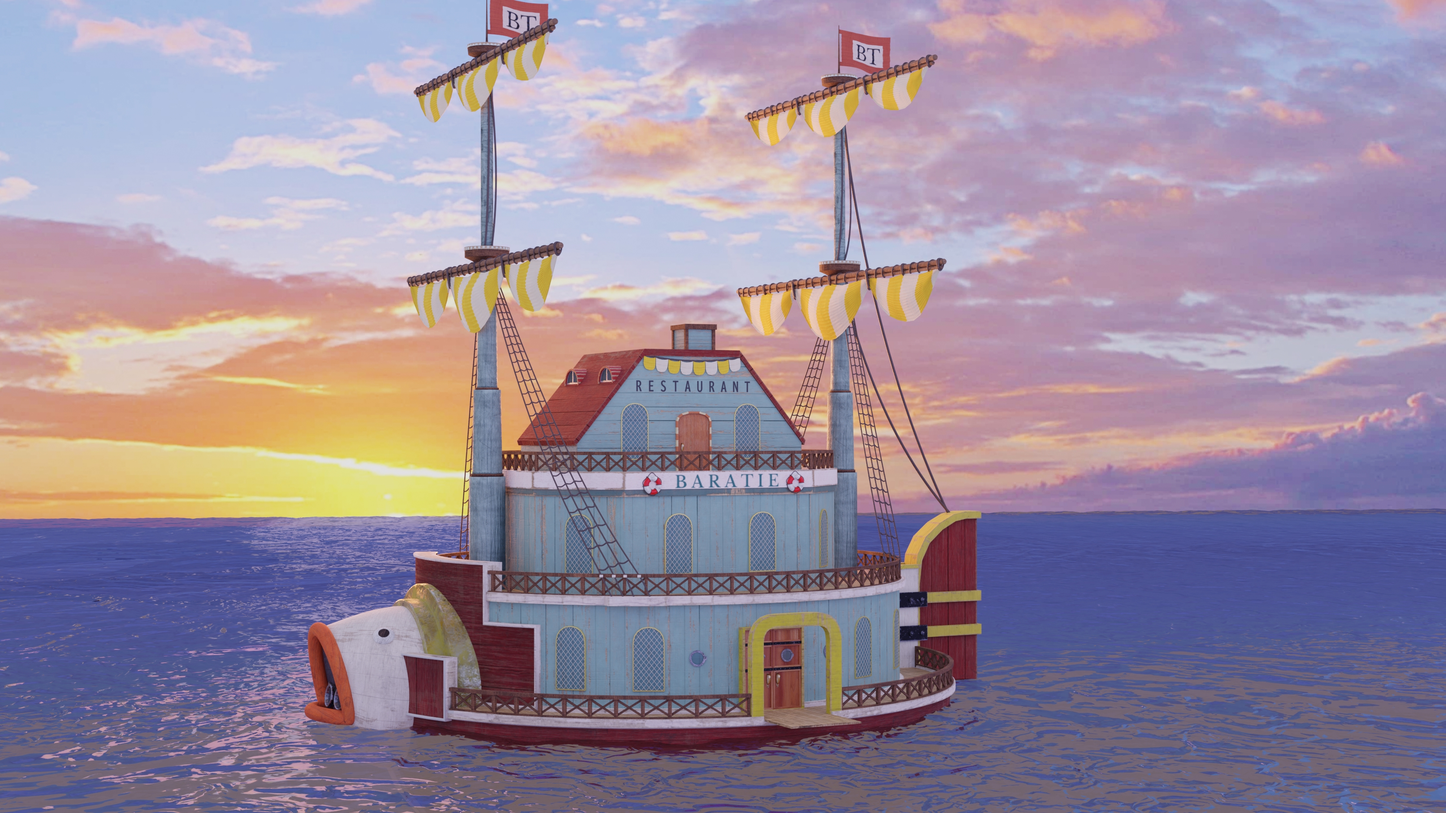
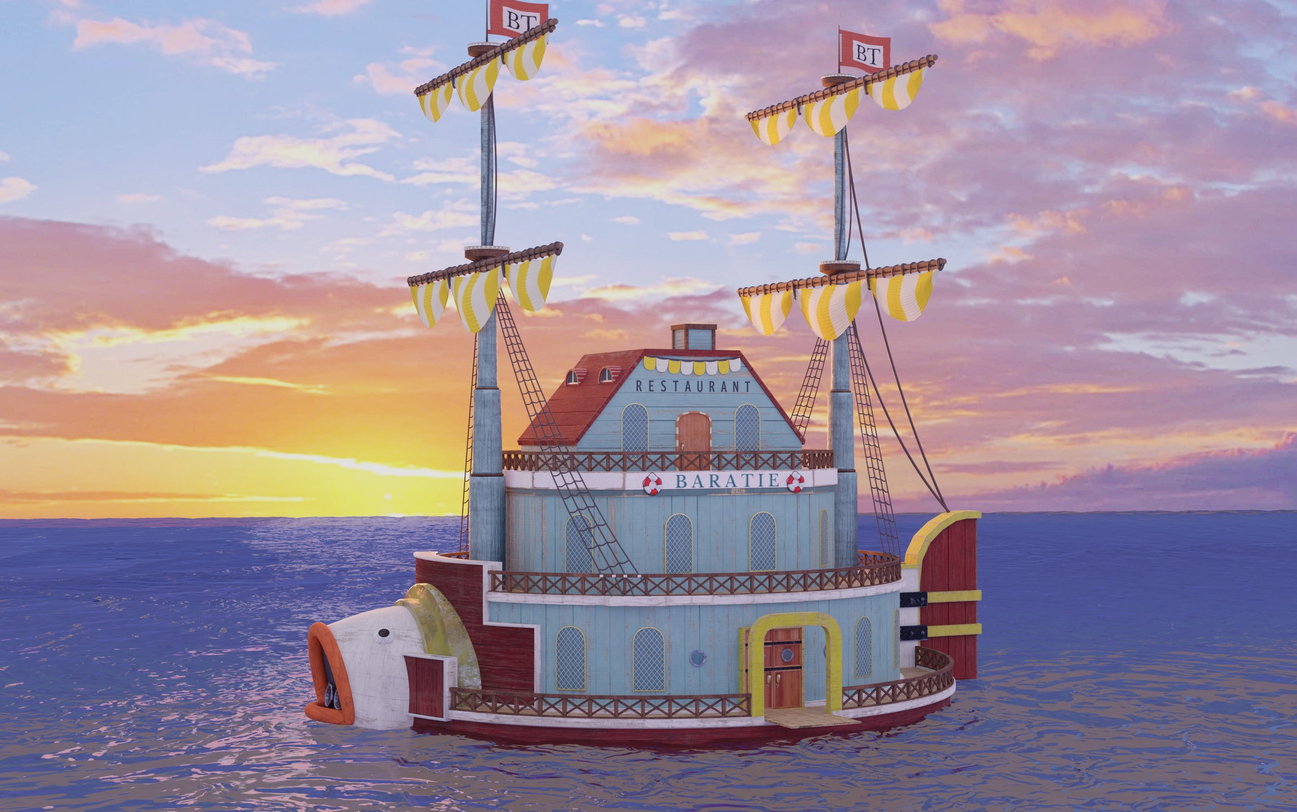
Rethemed site

diff --git a/main.js b/main.js
@@ -26,7 +26,7 @@ eval("__webpack_require__.r(__webpack_exports__);\n/* harmony export */ __webpac
   \*************************************/
 /***/ ((__unused_webpack_module, __webpack_exports__, __webpack_require__) => {
 
-eval("__webpack_require__.r(__webpack_exports__);\n/* harmony export */ __webpack_require__.d(__webpack_exports__, {\n/* harmony export */   \"default\": () => (__WEBPACK_DEFAULT_EXPORT__)\n/* harmony export */ });\nconst renderFooter = () => {\n    const body = document.querySelector('body');\n    const footer = document.createElement('div');\n    footer.classList.add('footer');\n    footer.innerHTML = '<span>Brought to you by the Straw Hat Pirates</span><ion-icon name=\"logo-github\"></ion-icon>'\n    body.appendChild(footer);\n    console.log(\"footer rendered\");\n}\n\n/* harmony default export */ const __WEBPACK_DEFAULT_EXPORT__ = (renderFooter);\n\n//# sourceURL=webpack://restaurant-page/./src/display/renderFooter.js?");
+eval("__webpack_require__.r(__webpack_exports__);\n/* harmony export */ __webpack_require__.d(__webpack_exports__, {\n/* harmony export */   \"default\": () => (__WEBPACK_DEFAULT_EXPORT__)\n/* harmony export */ });\nconst renderFooter = () => {\n    const body = document.querySelector('body');\n    const footer = document.createElement('div');\n    footer.classList.add('footer');\n    footer.innerHTML = '<div>Brought to you by the Straw Hat Pirates</div><ion-icon name=\"logo-github\"></ion-icon>'\n    body.appendChild(footer);\n    console.log(\"footer rendered\");\n}\n\n/* harmony default export */ const __WEBPACK_DEFAULT_EXPORT__ = (renderFooter);\n\n//# sourceURL=webpack://restaurant-page/./src/display/renderFooter.js?");
 
 /***/ }),
 
@@ -36,7 +36,7 @@ eval("__webpack_require__.r(__webpack_exports__);\n/* harmony export */ __webpac
   \*************************************/
 /***/ ((__unused_webpack_module, __webpack_exports__, __webpack_require__) => {
 
-eval("__webpack_require__.r(__webpack_exports__);\n/* harmony export */ __webpack_require__.d(__webpack_exports__, {\n/* harmony export */   \"default\": () => (__WEBPACK_DEFAULT_EXPORT__)\n/* harmony export */ });\nconst renderHeader = () => {\n    const body = document.querySelector('body');\n    const header = document.createElement('div');\n    header.classList.add('header');\n    header.innerHTML = '<span class=\"tabs\">Menu <span id=\"header-title\">0ne Piece Izakaya</span> About</span>'\n    body.appendChild(header);\n    console.log(\"header rendered\");\n}\n\n/* harmony default export */ const __WEBPACK_DEFAULT_EXPORT__ = (renderHeader);\n\n//# sourceURL=webpack://restaurant-page/./src/display/renderHeader.js?");
+eval("__webpack_require__.r(__webpack_exports__);\n/* harmony export */ __webpack_require__.d(__webpack_exports__, {\n/* harmony export */   \"default\": () => (__WEBPACK_DEFAULT_EXPORT__)\n/* harmony export */ });\nconst renderHeader = () => {\n    const body = document.querySelector('body');\n    const header = document.createElement('div');\n    header.classList.add('header');\n    header.innerHTML = '<span class=\"tabs\">Menu <span id=\"header-title\">BARATIE</span> About</span>'\n    body.appendChild(header);\n    console.log(\"header rendered\");\n}\n\n/* harmony default export */ const __WEBPACK_DEFAULT_EXPORT__ = (renderHeader);\n\n//# sourceURL=webpack://restaurant-page/./src/display/renderHeader.js?");
 
 /***/ }),
 
@@ -56,7 +56,7 @@ eval("__webpack_require__.r(__webpack_exports__);\n/* harmony import */ var _dis
   \*********************************/
 /***/ ((__unused_webpack_module, __webpack_exports__, __webpack_require__) => {
 
-eval("__webpack_require__.r(__webpack_exports__);\n/* harmony export */ __webpack_require__.d(__webpack_exports__, {\n/* harmony export */   \"default\": () => (__WEBPACK_DEFAULT_EXPORT__)\n/* harmony export */ });\n/* harmony import */ var _display_renderHeader_js__WEBPACK_IMPORTED_MODULE_0__ = __webpack_require__(/*! ../display/renderHeader.js */ \"./src/display/renderHeader.js\");\n/* harmony import */ var _display_renderFooter_js__WEBPACK_IMPORTED_MODULE_1__ = __webpack_require__(/*! ../display/renderFooter.js */ \"./src/display/renderFooter.js\");\n\n\n\nconst renderHome = () => {\n    const content = document.querySelector('#content');\n    const homePage = document.createElement('div');\n    homePage.classList.add('homepage');\n    const background = document.createElement('div');\n    background.classList.add('background');\n    homePage.appendChild(background);\n    content.appendChild(homePage);\n    console.log(\"home rendered\");\n}\n\n/* harmony default export */ const __WEBPACK_DEFAULT_EXPORT__ = (renderHome);\n\n//# sourceURL=webpack://restaurant-page/./src/pages/renderHome.js?");
+eval("__webpack_require__.r(__webpack_exports__);\n/* harmony export */ __webpack_require__.d(__webpack_exports__, {\n/* harmony export */   \"default\": () => (__WEBPACK_DEFAULT_EXPORT__)\n/* harmony export */ });\nconst renderHome = () => {\n    const content = document.querySelector('#content');\n    const homePage = document.createElement('div');\n    homePage.classList.add('homepage');\n    const background = document.createElement('div');\n    background.classList.add('background');\n    homePage.appendChild(background);\n    content.appendChild(homePage);\n    console.log(\"home rendered\");\n}\n\n/* harmony default export */ const __WEBPACK_DEFAULT_EXPORT__ = (renderHome);\n\n//# sourceURL=webpack://restaurant-page/./src/pages/renderHome.js?");
 
 /***/ })
 

diff --git a/main.css b/main.css
@@ -1,5 +1,5 @@
 body {
-    font-family: 'East Sea Dokdo', cursive;
+    font-family: 'Merriweather', serif;
     margin: 0px;
 }
 
@@ -11,8 +11,8 @@ body {
 .header {
     position: absolute;
     top: 0;
-    color: rgb(53, 192, 0);
-    background-color: rgb(34, 82, 117);
+    color: rgb(129, 209, 233);
+    background-color: white;
     width: 100%;
     text-align: center;
     word-wrap: break-word;
@@ -21,13 +21,18 @@ body {
 #header-title{
     padding: 3%;
     font-size: 2em;
-    text-shadow: 2px 2px black;
+    text-shadow: 1px 1px black;
 }
 
+.tabs {
+    font-size: 1.5em;
+}
+
+
 .background {
-    margin-top: 3.5%;
+    margin-top: -7.25%;
     padding-top: 5%;
-    background-image: url("./imgs/bar_edited.png");
+    background-image: url("./imgs/baratie_3d.jpg");
     background-size: cover;
     background-repeat: no-repeat;
     background-position: center;
@@ -36,16 +41,14 @@ body {
     max-width: 100%;
 }
 
-.tabs {
-    font-size: 2em;
-}
-
 .footer {
+    font-family: 'Montserrat', sans-serif;
     bottom: 0;
     position: absolute;
-    background-color: rgb(69, 85, 73);
-    color: rgb(53, 192, 0);
+    background-color: rgb(76, 83, 151);
+    color: white;
+    min-height: 6%;
     width: 100%;
-    font-size: 2em;
+    font-size: 1em;
     text-align: center;
 }

diff --git a/index.html b/index.html
@@ -3,12 +3,22 @@
     <meta charset="UTF-8">
     <meta http-equiv="X-UA-Compatible" content="IE=edge">
     <meta name="viewport" content="width=device-width, initial-scale=1.0">
-    <title>One Piece Izakaya</title>
+    <title>Baratie</title>
     <link rel="stylesheet" href="./main.css">
-    <link href="https://fonts.googleapis.com/css2?family=East+Sea+Dokdo&display=swap" rel="stylesheet">
+    <link href="https://fonts.googleapis.com/css2?family=Merriweather&display=swap" rel="stylesheet">
+    <link href="https://fonts.googleapis.com/css2?family=Montserrat&display=swap" rel="stylesheet">
 </head>
 <body>
-    <div id="content"></div>
+    <!--
+    <div class="about">
+        <div class="gallery">
+            <img src="./imgs/baratie.jpg" alt="Baratie Indoors">
+            <img src="./imgs/baratie_3d.jpg" alt="Baratie Outdoors">
+        </div>
+        <div class="description"></div>
+    </div> -->
+    <div id="content">
+    </div>
     <script src="main.js"></script>
     <script type="module" src="https://unpkg.com/ionicons@5.5.2/dist/ionicons/ionicons.esm.js"></script>
     <script nomodule src="https://unpkg.com/ionicons@5.5.2/dist/ionicons/ionicons.js"></script>
